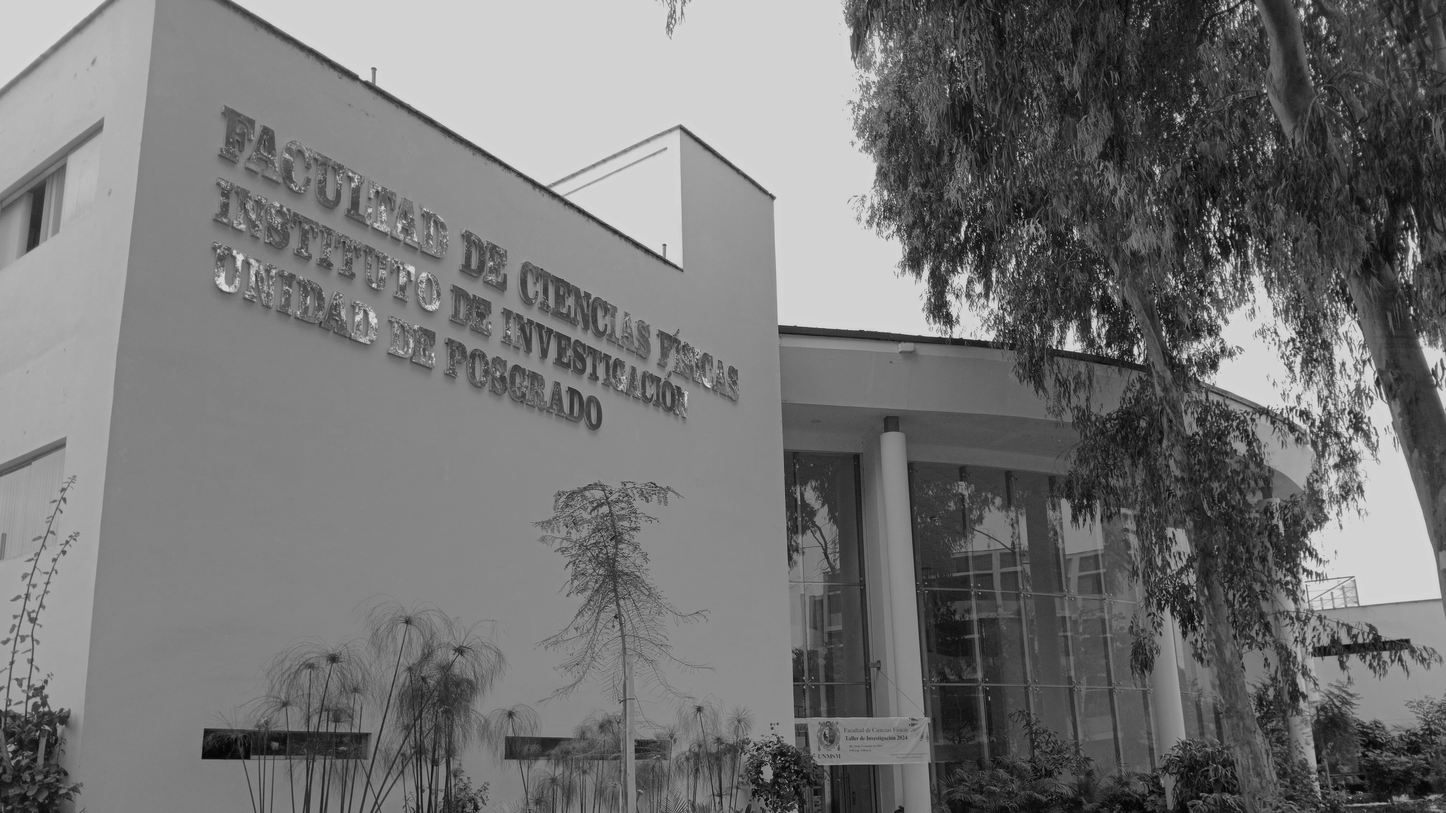
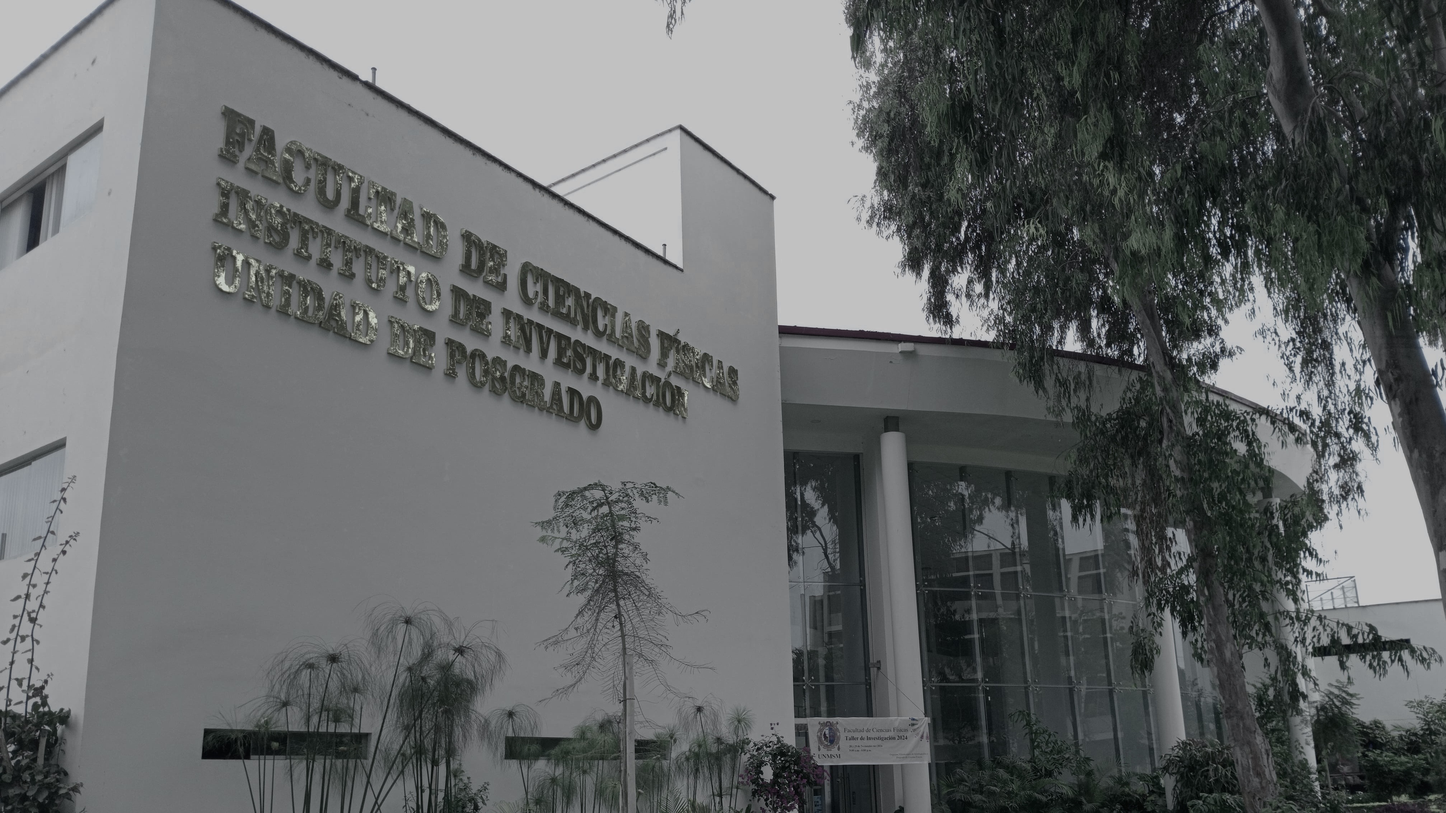
Image black and white but cool. Italic.
q
quit

diff --git a/index.html b/index.html
@@ -47,7 +47,7 @@
 							<div id="banner">
 								<strong><h2 align=center>Entre Fisicos 2025:</strong>
 									<br>
-									R<span class="lowercase">ompiendo mitos, creando futuros.</span>
+									<i>R<span class="lowercase">ompiendo mitos, creando futuros.</span></i>
 									</h2> 
 								
 								<!-- <p>xx-xx May 2025</p></sub>-->
